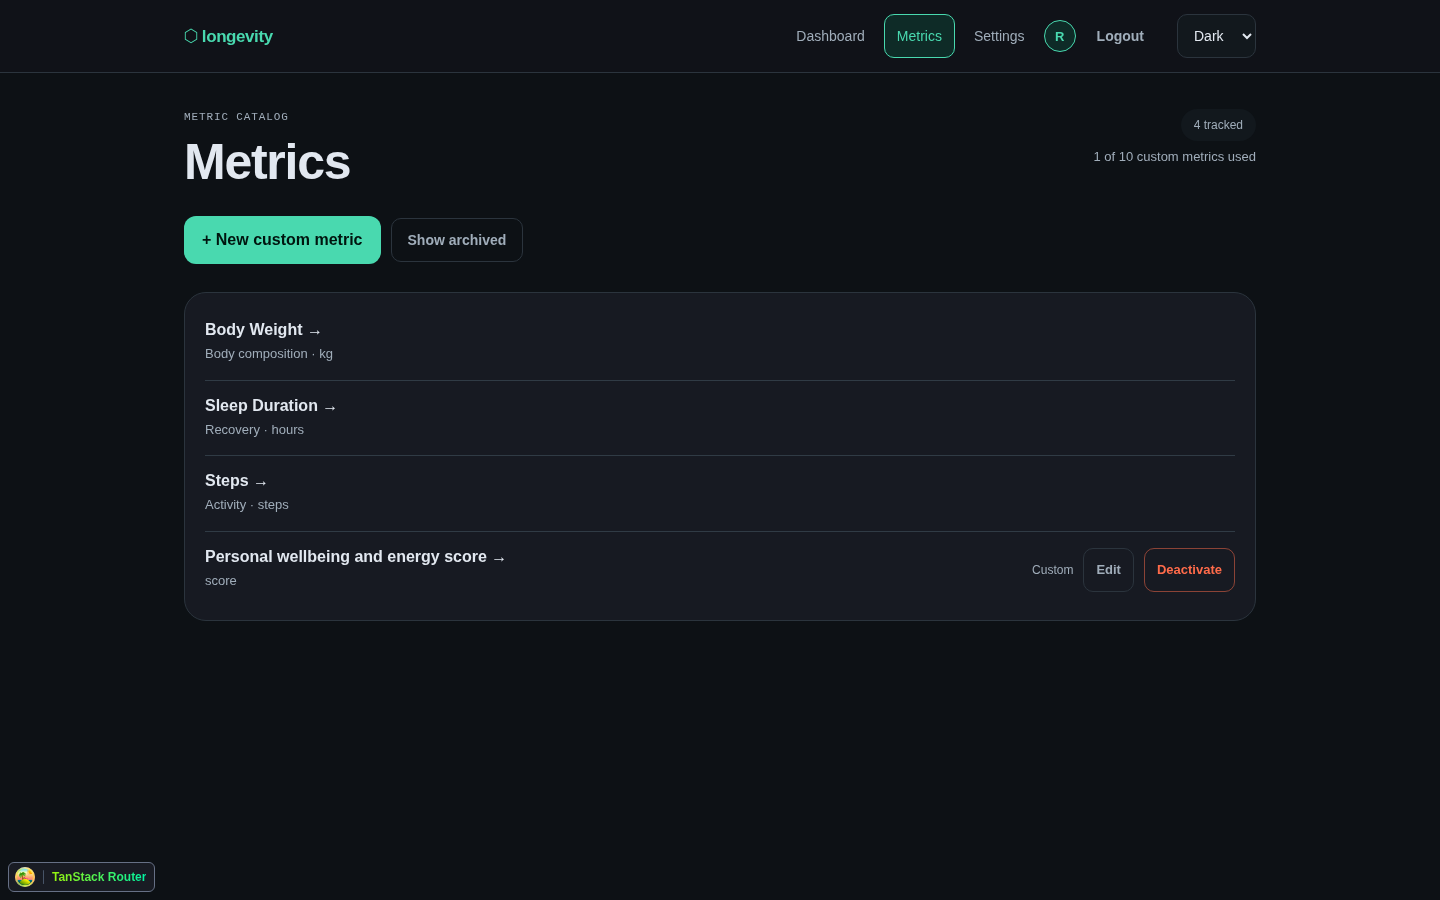
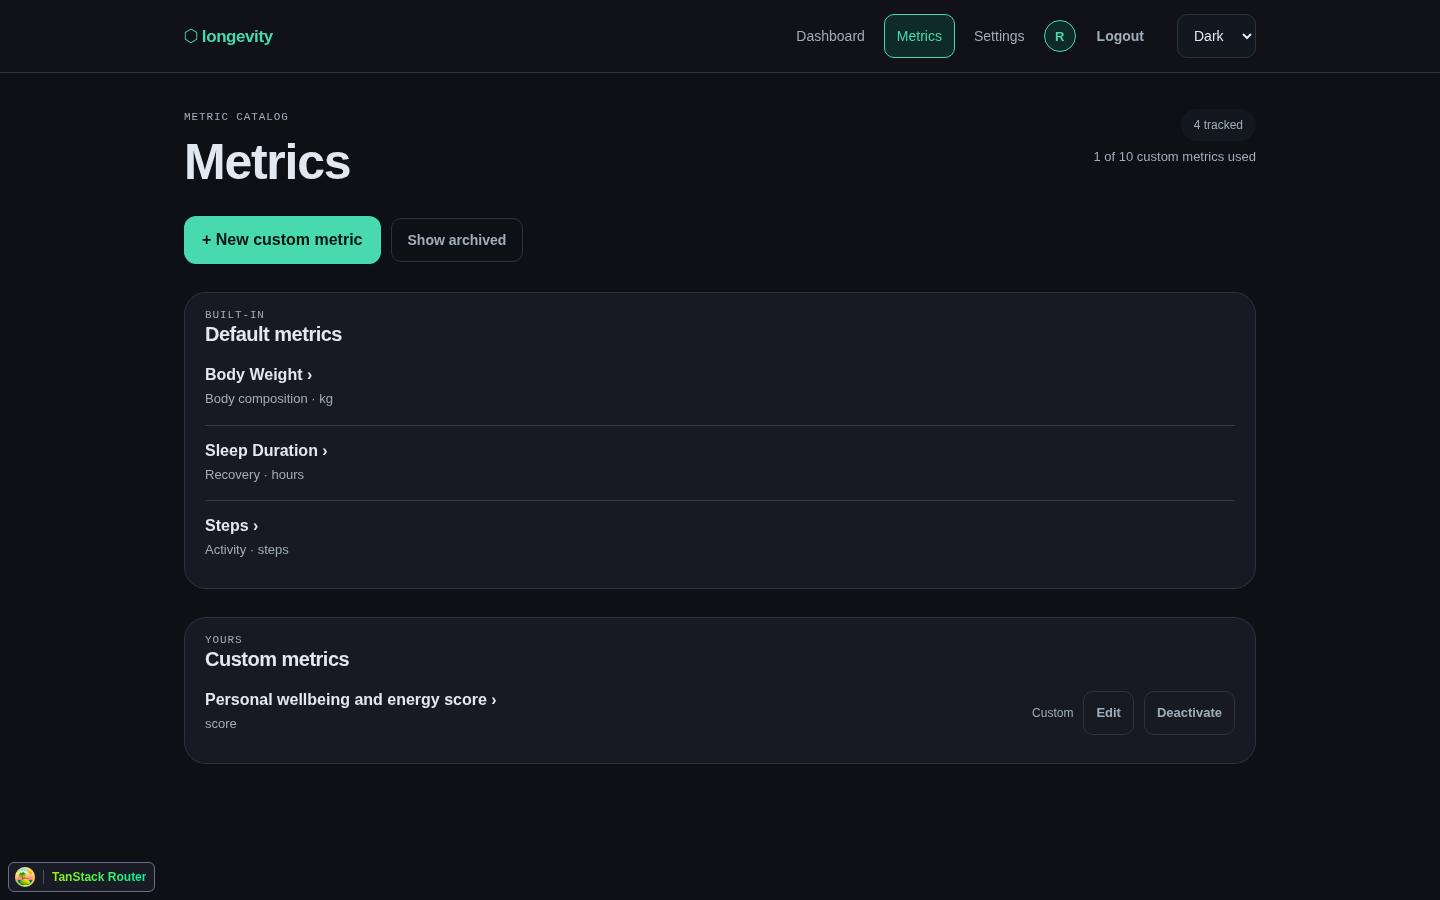
Metrics catalog restructured.

diff --git a/frontend/src/test/metrics-route.test.tsx b/frontend/src/test/metrics-route.test.tsx
@@ -168,7 +168,7 @@ describe("metrics route", () => {
     renderRoute("/metrics");
 
     expect(
-      await screen.findByRole("heading", { name: /metrics/i }),
+      await screen.findByRole("heading", { level: 1, name: "Metrics" }),
     ).toBeInTheDocument();
     expect(
       screen.getByRole("heading", { name: /resting heart rate/i }),
@@ -178,6 +178,97 @@ describe("metrics route", () => {
     expect(
       screen.getByRole("button", { name: "Show archived" }),
     ).toHaveAttribute("aria-expanded", "false");
+  });
+
+  it("groups available metrics into default and custom sections", async () => {
+    vi.mocked(getMe).mockResolvedValue({
+      email: "user@example.com",
+    });
+    mockLoadedMetricDefinitions([
+      {
+        id: "metric-id",
+        name: "Resting Heart Rate",
+        slug: "resting_hr",
+        unit: "bpm",
+        category: "cardiovascular",
+        min_value: 20,
+        max_value: 220,
+        is_default: true,
+        is_active: true,
+      },
+      {
+        id: "custom-id",
+        name: "Mood",
+        slug: "mood",
+        unit: "score",
+        category: "custom",
+        min_value: 1,
+        max_value: 10,
+        is_default: false,
+        is_active: true,
+      },
+    ]);
+
+    renderRoute("/metrics");
+
+    const defaultSection = await screen.findByRole("region", {
+      name: "Default metrics",
+    });
+    const customSection = screen.getByRole("region", {
+      name: "Custom metrics",
+    });
+    expect(
+      within(defaultSection).getByRole("link", { name: /resting heart rate/i }),
+    ).toBeInTheDocument();
+    expect(
+      within(defaultSection).queryByRole("link", { name: /mood/i }),
+    ).not.toBeInTheDocument();
+    expect(
+      within(customSection).getByRole("link", { name: /mood/i }),
+    ).toBeInTheDocument();
+  });
+
+  it("shows an empty custom section prompt when no custom metrics exist", async () => {
+    vi.mocked(getMe).mockResolvedValue({
+      email: "user@example.com",
+    });
+    mockLoadedMetricDefinitions();
+
+    renderRoute("/metrics");
+
+    const customSection = await screen.findByRole("region", {
+      name: "Custom metrics",
+    });
+    expect(
+      within(customSection).getByText(/no custom metrics yet/i),
+    ).toBeInTheDocument();
+  });
+
+  it("styles row-level deactivation as a neutral action", async () => {
+    vi.mocked(getMe).mockResolvedValue({
+      email: "user@example.com",
+    });
+    mockLoadedMetricDefinitions([
+      {
+        id: "custom-id",
+        name: "Mood",
+        slug: "mood",
+        unit: "score",
+        category: "custom",
+        min_value: 1,
+        max_value: 10,
+        is_default: false,
+        is_active: true,
+      },
+    ]);
+
+    renderRoute("/metrics");
+
+    const deactivate = await screen.findByRole("button", {
+      name: "Deactivate Mood",
+    });
+    expect(deactivate).toHaveClass("metric-row-secondary-action");
+    expect(deactivate).not.toHaveClass("metric-row-danger-action");
   });
 
   it("shows active custom metric usage returned by the backend", async () => {
@@ -233,7 +324,7 @@ describe("metrics route", () => {
 
     renderRoute("/metrics");
 
-    await screen.findByRole("heading", { name: /metrics/i });
+    await screen.findByRole("heading", { level: 1, name: "Metrics" });
     expect(screen.queryByRole("dialog")).not.toBeInTheDocument();
 
     await user.click(
@@ -327,7 +418,7 @@ describe("metrics route", () => {
 
     renderRoute("/metrics");
 
-    await screen.findByRole("heading", { name: /metrics/i });
+    await screen.findByRole("heading", { level: 1, name: "Metrics" });
 
     await openCustomMetricDialog(user);
     await fillCustomMetricForm(user);
@@ -355,7 +446,7 @@ describe("metrics route", () => {
 
     renderRoute("/metrics");
 
-    await screen.findByRole("heading", { name: /metrics/i });
+    await screen.findByRole("heading", { level: 1, name: "Metrics" });
 
     await openCustomMetricDialog(user);
     await fillCustomMetricForm(user);
@@ -381,7 +472,7 @@ describe("metrics route", () => {
 
     renderRoute("/metrics");
 
-    await screen.findByRole("heading", { name: /metrics/i });
+    await screen.findByRole("heading", { level: 1, name: "Metrics" });
 
     await openCustomMetricDialog(user);
     await fillCustomMetricForm(user);
@@ -409,7 +500,7 @@ describe("metrics route", () => {
 
     renderRoute("/metrics");
 
-    await screen.findByRole("heading", { name: /metrics/i });
+    await screen.findByRole("heading", { level: 1, name: "Metrics" });
 
     await openCustomMetricDialog(user);
     await fillCustomMetricForm(user);
@@ -720,7 +811,9 @@ describe("metrics route", () => {
     expect(
       screen.getByRole("button", { name: "Hide archived" }),
     ).toHaveAttribute("aria-expanded", "true");
-    const activeMetrics = screen.getByLabelText(/available metrics/i);
+    const activeMetrics = screen.getByRole("region", {
+      name: "Custom metrics",
+    });
     expect(activeMetrics).toHaveTextContent(/sleep score/i);
     expect(activeMetrics).not.toHaveTextContent(/mood/i);
 

diff --git a/frontend/src/routes/metrics.tsx b/frontend/src/routes/metrics.tsx
@@ -60,6 +60,12 @@ function MetricsCatalog() {
   const activeMetricDefinitions = metricDefinitions.filter(
     (definition) => definition.is_active,
   );
+  const defaultMetricDefinitions = activeMetricDefinitions.filter(
+    (definition) => definition.is_default,
+  );
+  const customMetricDefinitions = activeMetricDefinitions.filter(
+    (definition) => !definition.is_default,
+  );
   const archivedCustomMetricDefinitions = metricDefinitions.filter(
     (definition) => !definition.is_active && !definition.is_default,
   );
@@ -157,11 +163,36 @@ function MetricsCatalog() {
         </div>
       ) : null}
 
-      <div className="metrics-list" aria-label="Available metrics">
-        {activeMetricDefinitions.map((definition) => (
+      <section
+        aria-label="Default metrics"
+        className="metrics-list metrics-default-list"
+      >
+        <div className="metrics-section-header">
+          <p className="eyebrow">Built-in</p>
+          <h2>Default metrics</h2>
+        </div>
+        {defaultMetricDefinitions.map((definition) => (
           <MetricDefinitionRow definition={definition} key={definition.id} />
         ))}
-      </div>
+      </section>
+
+      <section
+        aria-label="Custom metrics"
+        className="metrics-list metrics-custom-list"
+      >
+        <div className="metrics-section-header">
+          <p className="eyebrow">Yours</p>
+          <h2>Custom metrics</h2>
+        </div>
+        {customMetricDefinitions.length === 0 ? (
+          <p className="metrics-empty">
+            No custom metrics yet. Create one to track anything else.
+          </p>
+        ) : null}
+        {customMetricDefinitions.map((definition) => (
+          <MetricDefinitionRow definition={definition} key={definition.id} />
+        ))}
+      </section>
 
       <section
         hidden={!showInactive}
@@ -400,7 +431,7 @@ function MetricDefinitionRow({ definition }: MetricDefinitionRowProps) {
           to="/metrics/$slug"
         >
           <div>
-            <h2>{definition.name} →</h2>
+            <h2>{definition.name} ›</h2>
             <p>{formatMetricSubtitle(definition)}</p>
           </div>
         </Link>
@@ -419,7 +450,7 @@ function MetricDefinitionRow({ definition }: MetricDefinitionRowProps) {
               </button>
               <button
                 aria-label={`Deactivate ${definition.name}`}
-                className="metric-row-danger-action"
+                className="metric-row-secondary-action"
                 type="button"
                 onClick={() => setIsDeactivateDialogOpen(true)}
               >

diff --git a/frontend/src/index.css b/frontend/src/index.css
@@ -1658,6 +1658,25 @@ button {
   font-size: 14px;
 }
 
+.metrics-section-header {
+  padding: 4px 0 0;
+}
+
+.metrics-section-header .eyebrow {
+  margin-bottom: 2px;
+}
+
+.metrics-section-header h2 {
+  margin: 0 0 4px;
+  font-size: 20px;
+}
+
+.metrics-empty {
+  padding: 8px 0 4px;
+  color: var(--text-dim);
+  font-size: 14px;
+}
+
 .archived-metrics-list[hidden] {
   display: none;
 }

diff --git a/reference_docs/knowledge/20-frontend-development.md b/reference_docs/knowledge/20-frontend-development.md
@@ -85,8 +85,12 @@
   and shows an empty message when there are no archived custom metrics.
 - Mobile rows wrap actions below the metric name. API routes, stored slugs,
   quota enforcement, edit and archive/reactivate behavior are unchanged.
-- Verified with the existing catalog component tests and local browser layouts;
-  this is a local frontend change, with no cloud deployment.
+- The catalog groups active metrics into “Default metrics” (built-in) and
+  “Custom metrics” (yours) sections with an empty-state prompt when no custom
+  metric exists. Row links use a chevron marker, and row-level Deactivate is a
+  neutral secondary action (archiving is reversible; the confirm dialog keeps
+  the danger styling). Verified with the catalog component tests and local
+  browser layouts; this is a local frontend change, with no cloud deployment.
 
 ### Current redesign checkpoint (September 21, 2026)
 
